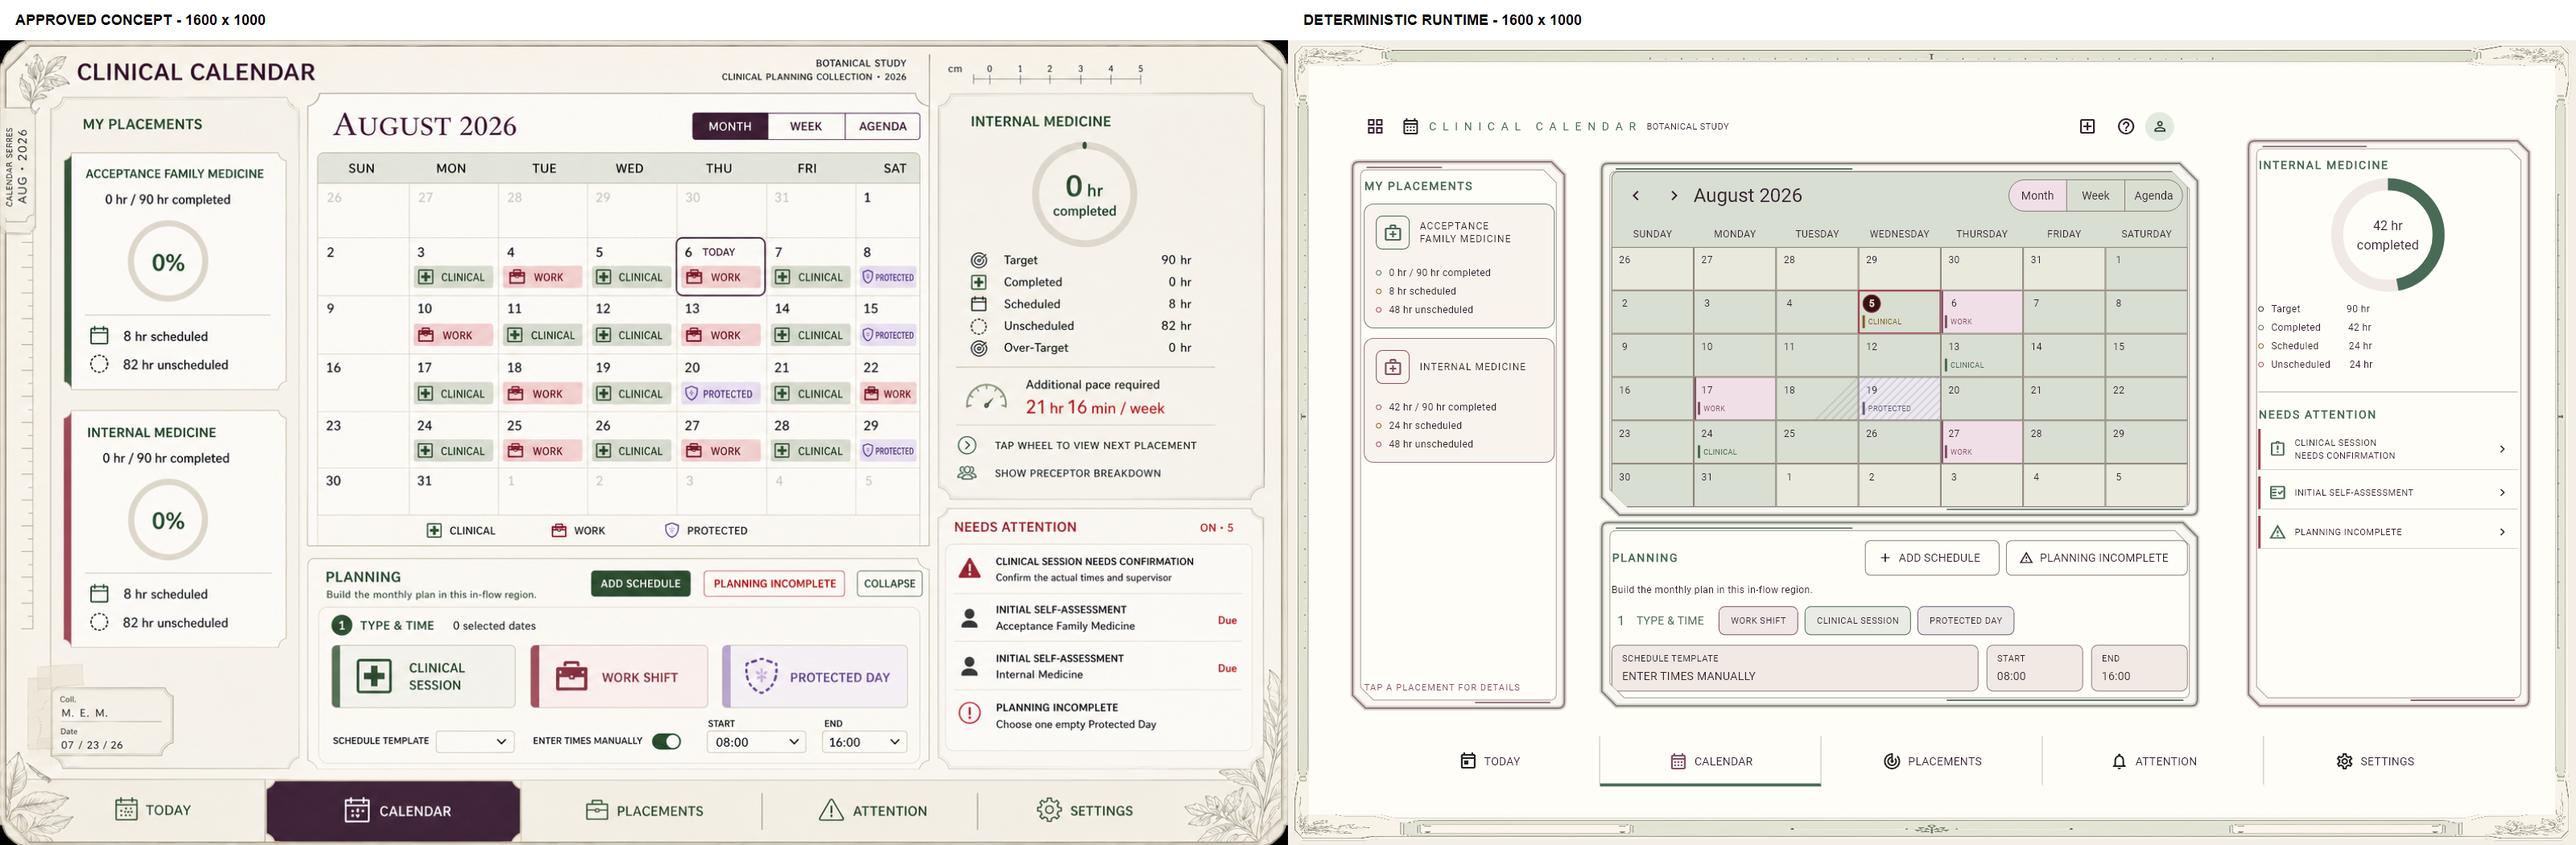
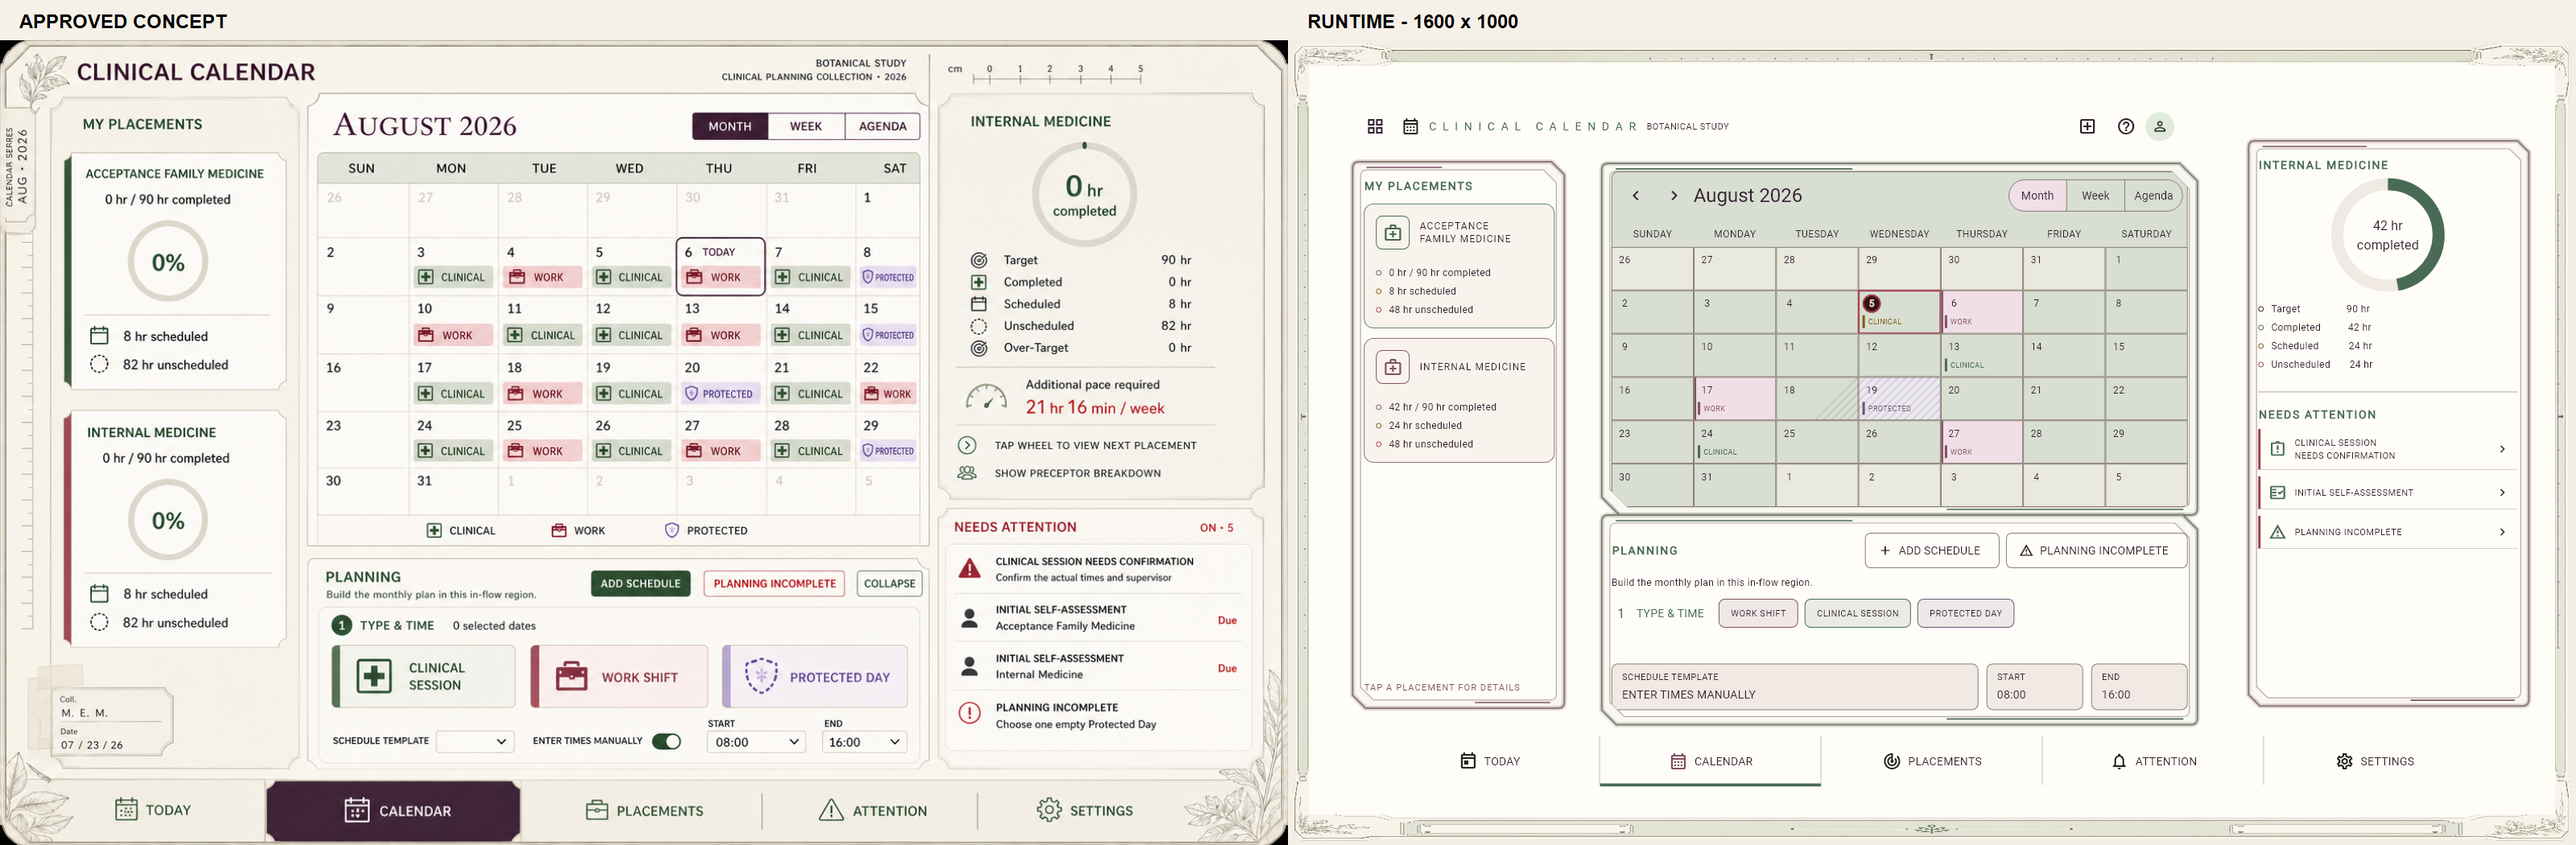
Address Botanical Study review findings (#135)

Changed region(s): [[0.625, 0.6095, 0.875, 0.8838], [0.5, 0.0, 0.625, 0.0305], [0.0, 0.0, 0.0938, 0.0305]]

diff --git a/packages/clinical_calendar_presentation/test/clinical_calendar_app_test.dart b/packages/clinical_calendar_presentation/test/clinical_calendar_app_test.dart
@@ -962,6 +962,42 @@ void main() {
     },
   );
 
+  testWidgets(
+    'Botanical Study preview composes the production live application slots',
+    (tester) async {
+      final repositories = _Repositories();
+      final preview = ThemePreviewController(
+        registry: ClinicalCalendarThemeBundleRegistry.standard,
+        authoritativeThemeId: graphiteThemeId,
+        initialRevision: 0,
+      );
+      addTearDown(preview.dispose);
+      await _pumpAt(
+        tester,
+        const Size(1600, 1000),
+        dependencies: _dependencies(repositories: repositories),
+        themePreviewController: preview,
+        candidateThemePreflight: (_) async {},
+      );
+      expect(tester.takeException(), isNull);
+
+      await preview.preview(botanicalStudyThemeId, preflight: (_) async {});
+      await tester.pumpAndSettle();
+
+      expect(find.byType(BotanicalStudyLandscapeChassis), findsOneWidget);
+      expect(find.byType(CalendarPeriodView), findsOneWidget);
+      expect(find.byKey(const Key('placement-dock-surface')), findsOneWidget);
+      expect(find.byKey(const Key('primary-planning-action')), findsOneWidget);
+      expect(find.byKey(const Key('placement-progress-rail')), findsOneWidget);
+      expect(find.byKey(const Key('attention-rail')), findsOneWidget);
+      expect(tester.takeException(), isNull);
+
+      await tester.tap(find.byKey(const Key('revert-theme-preview')));
+      await tester.pumpAndSettle();
+      expect(preview.effectiveBundle.id, variantFThemeId);
+    },
+  );
+
   testWidgets('failed Apply keeps Preview retryable and Revert available', (
     tester,
   ) async {

diff --git a/packages/clinical_calendar_presentation/test/botanical_study_theme_test.dart b/packages/clinical_calendar_presentation/test/botanical_study_theme_test.dart
@@ -23,11 +23,47 @@ void main() {
     expect(botanical.gallery.swatches, hasLength(5));
     expect(botanical.marks.marks, hasLength(9));
     expect(botanical.helpGuide.calendarStates, hasLength(5));
+    final standardTokens = botanical.standardPresentation
+        .createThemeData()
+        .extension<ClinicalCalendarAccessibilityTokens>()!;
+    final enhancedTokens = botanical.standardPresentation
+        .createThemeData(enhancedAccessibility: true)
+        .extension<ClinicalCalendarAccessibilityTokens>()!;
+    expect(standardTokens.selectionWidth, 2);
+    expect(enhancedTokens.focusOuterColor, const Color(0xFF4D1F55));
+    expect(enhancedTokens.selectionWidth, 3);
     expect(
       ClinicalCalendarThemeBundleRegistry.standard.resolveRoot(
         botanicalStudyThemeId,
       ),
       same(botanical),
+    );
+  });
+
+  test('existing themes retain their default owned frame paths', () {
+    expect(
+      const VariantFThemeBundle().shellRenderer.buildFrame(
+        child: SizedBox.shrink(),
+      ),
+      isA<VariantFTacticalFrame>(),
+    );
+    expect(
+      const GraphiteThemeBundle().shellRenderer.buildFrame(
+        child: SizedBox.shrink(),
+      ),
+      isA<GraphiteNineSliceFrame>(),
+    );
+    expect(
+      const FederationClassicThemeBundle().shellRenderer.buildFrame(
+        child: SizedBox.shrink(),
+      ),
+      isA<FederationClassicNineSliceFrame>(),
+    );
+    expect(
+      const Federation2399ThemeBundle().shellRenderer.buildFrame(
+        child: SizedBox.shrink(),
+      ),
+      isA<Federation2399NineSliceFrame>(),
     );
   });
 

diff --git a/packages/clinical_calendar_presentation/lib/src/botanical_study_theme.dart b/packages/clinical_calendar_presentation/lib/src/botanical_study_theme.dart
@@ -72,9 +72,20 @@ const botanicalStudyStandardAccessibilityTokens =
       focusOuterColor: BotanicalStudyColors.focus,
       focusInnerColor: Colors.black,
       focusWidth: 3,
-      selectionWidth: 1,
+      selectionWidth: 2,
       persistentExpandedLegend: false,
       decorationOpacity: 1,
+    );
+
+const botanicalStudyEnhancedAccessibilityTokens =
+    ClinicalCalendarAccessibilityTokens(
+      enhanced: true,
+      focusOuterColor: Color(0xFF4D1F55),
+      focusInnerColor: Colors.white,
+      focusWidth: 3,
+      selectionWidth: 3,
+      persistentExpandedLegend: true,
+      decorationOpacity: .55,
     );
 
 ThemeData buildBotanicalStudyTheme({bool enhancedAccessibility = false}) {
@@ -272,7 +283,7 @@ ThemeData _applyBotanicalStudyEnhancedAccessibility(ThemeData standard) {
       onSurfaceVariant: enhancedColors.secondaryText,
       outline: enhancedColors.insetBorder,
     ),
-    focusColor: enhancedAccessibilityTokens.focusOuterColor,
+    focusColor: botanicalStudyEnhancedAccessibilityTokens.focusOuterColor,
     dividerColor: enhancedColors.insetBorder,
     textTheme: standard.textTheme.apply(
       bodyColor: enhancedColors.primaryText,
@@ -331,7 +342,7 @@ ThemeData _applyBotanicalStudyEnhancedAccessibility(ThemeData standard) {
         compactSpacing: 8,
         standardSpacing: 16,
       ),
-      enhancedAccessibilityTokens,
+      botanicalStudyEnhancedAccessibilityTokens,
     ],
   );
 }

diff --git a/packages/clinical_calendar_presentation/lib/src/botanical_study_shell.dart b/packages/clinical_calendar_presentation/lib/src/botanical_study_shell.dart
@@ -139,15 +139,15 @@ final class BotanicalStudyApplicationShell extends StatelessWidget {
               ),
               Positioned(
                 left: width * .235,
-                top: height * .61,
+                top: height * .60,
                 width: width * .478,
-                height: height * .245,
+                height: height * .28,
                 child: _BotanicalStudyConsoleBay(
                   key: const Key('botanical-study-planning-bay'),
                   accent: _BotanicalStudyBayAccent.eucalyptus,
                   shape: _BotanicalStudyBayShape.planning,
                   child: VariantFPlanningBayMode(
-                    expandedByDefault: true,
+                    expandedByDefault: false,
                     child: slots.planningRegion,
                   ),
                 ),
@@ -370,7 +370,7 @@ final class _BotanicalStudyConsoleBay extends StatelessWidget {
           shape == _BotanicalStudyBayShape.insight ? 14 : 12,
           shape == _BotanicalStudyBayShape.calendar ? 10 : 18,
         ),
-        child: child,
+        child: AdditiveThemePanelInterior(child: child),
       ),
     );
     return CustomPaint(

diff --git a/packages/clinical_calendar_presentation/lib/src/theme_contract.dart b/packages/clinical_calendar_presentation/lib/src/theme_contract.dart
@@ -905,7 +905,7 @@ final class BotanicalStudyHelpGuide implements ThemeHelpGuide {
     CalendarStateGuide(
       role: ThemeSemanticRole.today,
       label: 'Today or urgent',
-      description: 'Aubergine rules mark Today; red identifies urgency.',
+      description: 'A deep red inset rule marks Today and urgent attention.',
       color: BotanicalStudyColors.today,
       nonColorCue: 'TODAY label or warning icon with explicit status text.',
       enhancedBehavior:
@@ -1654,9 +1654,9 @@ final class BotanicalStudyThemeBundle implements ClinicalCalendarThemeBundle {
           ),
           ThemeSemanticMark(
             role: ThemeSemanticRole.today,
-            markId: 'today-aubergine-rule',
+            markId: 'today-red-inset-rule',
             icon: Icons.today_outlined,
-            description: 'Aubergine rule and visible TODAY label',
+            description: 'Deep red inset rule and visible TODAY label',
           ),
           ThemeSemanticMark(
             role: ThemeSemanticRole.urgent,

diff --git a/docs/themes/acceptance/proofs/botanical-study/README.md b/docs/themes/acceptance/proofs/botanical-study/README.md
@@ -39,16 +39,37 @@ theme-local.
 
 ```text
 55a52746a1c8c0be62247d3e8840a3c4dd9cc0010b5f6aa8fb65abad91671329  approved-concept-landscape.png
-288132b2e6f8a65ba08b35218d6ffce956cf448ee19e8023e641ff849b9e4ce7  landscape-concept-vs-runtime.png
-2a24acbe1ac752a80c52e62fe64458adabec4025ef23c096ac834f1289f6c690  runtime-landscape-1600x1000.png
-33ab786472a7b6244596437b585060b33b685d190821b67ddcba12370618a5ca  runtime-portrait-900x1440.png
+4a7e571475dee8520268a6b80dd11d7f707043d352398d600d7398cb8b5b7e6b  landscape-concept-vs-runtime.png
+b0fe1f8adda4c9de9e169cc61a6deb3feb77159b1556e315549a65115c35ef71  runtime-landscape-1600x1000.png
+1f35f33d8bd2376add0b1e04672ff974811f9b71bda2ca6139414361be62c3e4  runtime-portrait-900x1440.png
 f1153a633fb7b77598655538cc5f08b95aabc7ed6ee01e34dbafe36425359720  runtime-portrait-200-percent-900x1440.png
 ```
 
 ## Physical Android-tablet acceptance
 
-State: **not performed — pending in #139 after maintainer visual approval**.
+State: **not performed - pending in #139 after maintainer visual approval**.
 
 No file in this package is a physical-device capture. No physical build was
 installed, no signing material was accessed, and no acceptance decision is
 inferred. Fresh physical evidence must use fictional data.
+
+## Automated gate evidence
+
+The following repository-standard gates passed on Windows at the candidate
+commit using the checked-in fictional fixtures and production assets:
+
+- Botanical bundle, callback, portrait-order, Enhanced-token, and unchanged
+  existing-renderer tests;
+- deterministic landscape, portrait, 200%-text, and real-renderer thumbnail
+  goldens, independently;
+- the non-compensating acceptance harness, including Standard and Enhanced
+  runtime contrast, registry ownership, normalized asset geometry and SHA-256,
+  thumbnail provenance, Help, fallback, persistence, and every cross-theme
+  Preview/Revert/Apply transition;
+- the full `clinical_calendar_presentation` suite; and
+- `dart run tool/quality.dart` across every package and application.
+
+The partial registry intentionally remains fail-closed and non-selectable until
+all seven complete bundles exist, as required by the additive-theme contract.
+Botanical Study can be previewed and its setting persisted in this development
+slice; restart resolves Graphite fallback until the closed catalog activates.
